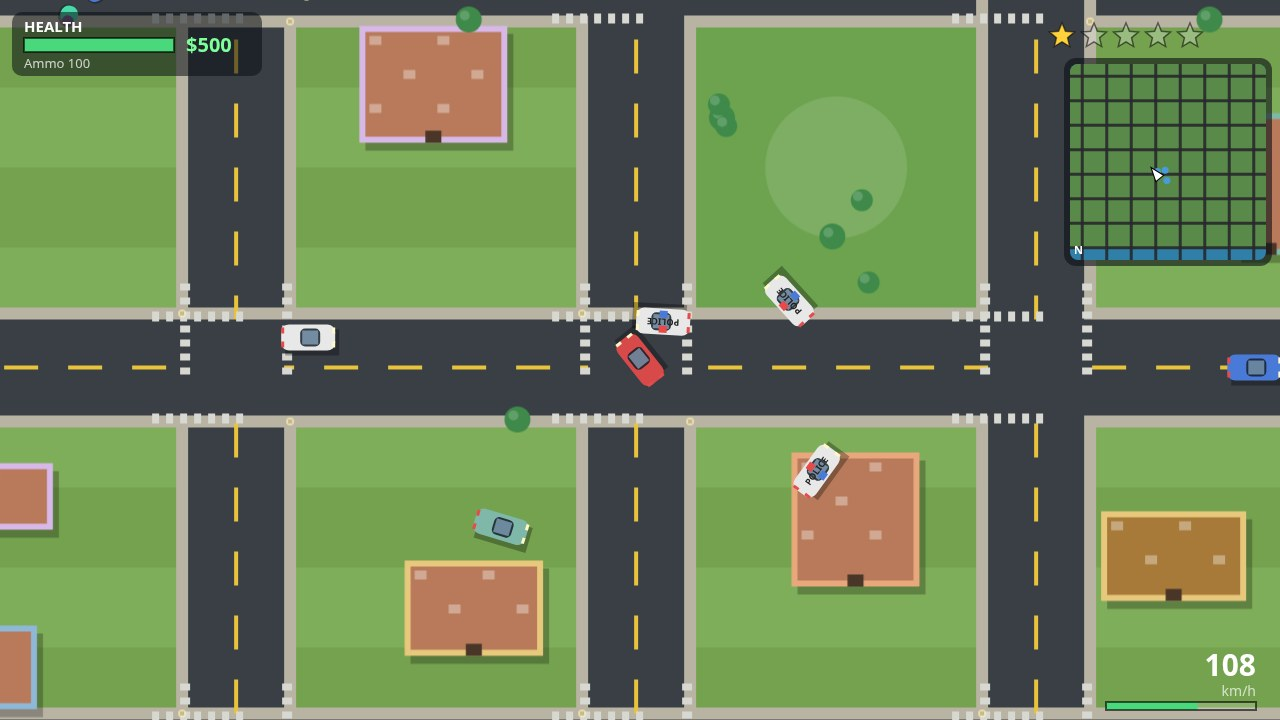
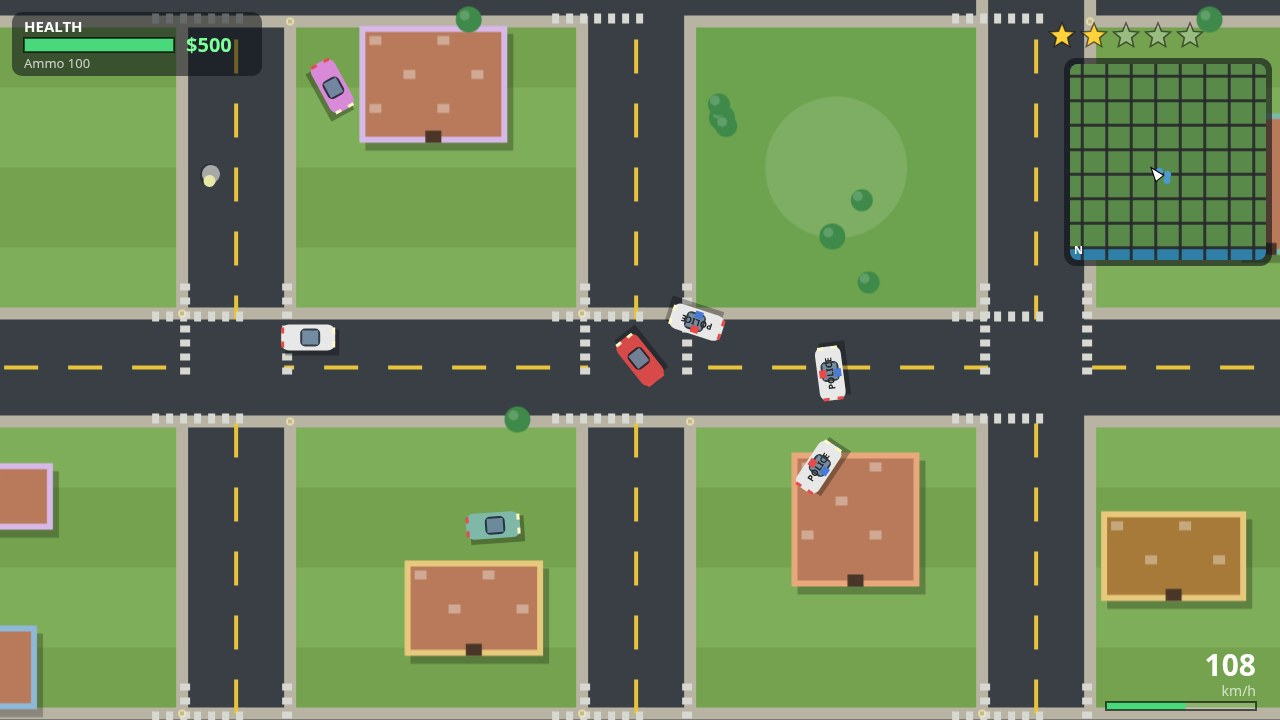
Run 2: live-test missions 4+6, fix traffic/ped/heat/escape bugs, remove debug hook
- Traffic cars no longer drive off the world (clamp + U-turn at edges);
  an escaped car at x=4026 had made the nearest-car search unreachable.
- Peds flee fast cars: off the road to the sidewalk, or sideways out of the
  car's path off-road (carFlee holds the escape target).
- Bank-job pickup sets heat to 230 (solid 4 stars) instead of adding 200.
- Heat decay now needs a clear line of sight (city.hasLineOfSight) and the
  seen rate is 2.2 -> 4/s, so the Big Score escape is winnable (~60-100 s).
- Police ram damage to the player car 2 -> 1; far traffic is retired.
- Remove window.__world debug hook from main.js (shot + live).
- Regenerate screenshots; verify missions 4 and 6 live end-to-end.

diff --git a/game/src/world.js b/game/src/world.js
@@ -265,7 +265,17 @@ export function createWorld(random) {
       if (dist < 70) {
         const res = advanceStep(missions);
         if (res && res.complete) { state.money += res.payout; events |= EVENT_MISSION_DONE; }
-        else if (mission.id === 6) addHeat(320 - state.heat > 0 ? 200 : 0); // bank job: four stars
+        else if (mission.id === 6) {
+          // Bank job: the response is four stars — set the heat to 230, solidly
+          // inside the four-star band (200–319), whatever the player arrived
+          // with. (Adding 200 on top of heat the player already had could stack
+          // to five stars, which the brief never asks for and makes the escape
+          // effectively unwinnable. Setting exactly 200 would decay below the
+          // band on the very next tick, so the player would never actually face
+          // the promised four-star response.)
+          state.heat = 230;
+          state.stars = wantedStars(state.heat);
+        }
       }
     } else if (step.kind === 'steal') {
       // The target car waits at the casino; entering it completes the step.
@@ -324,7 +334,8 @@ export function createWorld(random) {
     // Traffic and parked-car upkeep: keep the streets full near the player.
     const px = player.inCar ? player.inCar.x : player.x;
     const py = player.inCar ? player.inCar.y : player.y;
-    state.cars = state.cars.filter((c) => !c.dead || c === player.inCar);
+    state.cars = state.cars.filter((c) => (!c.dead || c === player.inCar)
+      && (!c.traffic || Math.hypot(c.x - px, c.y - py) < 1500));
     if (state.cars.filter((c) => c.traffic).length < 20) {
       const c = spawnTraffic(random, px, py);
       if (c) state.cars.push(c);
@@ -333,8 +344,10 @@ export function createWorld(random) {
       if (c.traffic && c !== player.inCar) stepTraffic(c, dt, random, state.cars, (x, y, r) => collideCircle(x, y, r));
     }
 
-    // Pedestrians.
-    const danger = input.fire ? { x: player.x, y: player.y } : null;
+    // Pedestrians. A fast car is danger too: peds on the road get out of its way.
+    const fastCar = player.inCar && Math.abs(player.inCar.speed) > 200 ? player.inCar : null;
+    const danger = input.fire ? { x: player.x, y: player.y }
+      : fastCar ? { x: fastCar.x, y: fastCar.y, car: true, angle: fastCar.angle } : null;
     for (const ped of state.peds) {
       if (ped.state === 'dead') continue;
       stepPed(ped, dt, random, danger);
@@ -362,8 +375,15 @@ export function createWorld(random) {
     }
 
     // Wanted heat: decay when unseen, faster when no police are near.
-    const nearPolice = police.cars.some((c) => Math.hypot(c.x - px, c.y - py) < 500) ||
-      police.cops.some((c) => Math.hypot(c.x - px, c.y - py) < 400);
+    // "Seen" needs a clear line of sight, not just distance: a police unit
+    // behind a building (or cutting across a block) does not see the player,
+    // so weaving through the blocks really does break the heat — that is what
+    // the Heat Wave / Big Score escapes are about. Police cars drive through
+    // buildings, so a unit inside a block counts as blind too.
+    const seesPlayer = (ux, uy, range) => Math.hypot(ux - px, uy - py) < range
+      && city.hasLineOfSight(ux, uy, px, py);
+    const nearPolice = police.cars.some((c) => seesPlayer(c.x, c.y, 500)) ||
+      police.cops.some((c) => seesPlayer(c.x, c.y, 400));
     state.wantedSeen = nearPolice;
     if (state.stars > 0) {
       state.heat -= (nearPolice ? WANTED.decayPerSecond : WANTED.unseenDecay) * dt;
@@ -380,7 +400,8 @@ export function createWorld(random) {
           if (c.ramTimer > 0) return;
           c.ramTimer = 1.0;
           if (player.inCar) {
-            player.inCar.health -= 2;
+            player.inCar.health -= 1; // a ram chips the car; at 1/s per police car
+            // a chase still wears it down, but one car now lasts a whole escape leg
             c.health -= 6; // ramming wears the police car out too
             if (c.health <= 0) c.dead = true;
             if (player.inCar.health <= 0) {

diff --git a/game/src/peds.js b/game/src/peds.js
@@ -1,7 +1,7 @@
 // Pedestrians: they stroll the sidewalks, cross roads at intersections, and run away
 // from gunfire and speeding cars. A few are armed rivals during the warehouse mission.
 import { PEDS, WORLD } from './config.js';
-import { ROAD_LINES, isOnRoad } from './city.js';
+import { ROAD_LINES, isOnRoad, nearestRoad } from './city.js';
 
 export const PED_COLORS = ['#e8b88a', '#c98a6a', '#8a6a4a', '#d8d8d8', '#7a5a8a', '#4a7a8a', '#e8e8a8', '#a85a5a'];
 const SHIRTS = ['#4a7ad8', '#d84a4a', '#e8c33c', '#4ad8a8', '#d88ad8', '#e87c3c', '#7fb8a8', '#a8a8a8'];
@@ -20,6 +20,7 @@ export function makePed(random, x, y, opts = {}) {
     targetY: y,
     retarget: 0,
     panic: 0,
+    carFlee: 0, // seconds left fleeing a fast car (holds the sidewalk target)
     shootTimer: 0,
   };
 }
@@ -43,13 +44,47 @@ export function stepPed(ped, dt, random, danger) {
   if (ped.state === 'dead') return;
   ped.retarget -= dt;
   if (ped.panic > 0) ped.panic -= dt;
+  if (ped.carFlee > 0) ped.carFlee -= dt;
 
   // Danger (gunfire, a car bearing down): run away from it.
   if (danger) {
     const dx = ped.x - danger.x;
     const dy = ped.y - danger.y;
     const d = Math.hypot(dx, dy);
-    if (d < 320) {
+    if (danger.car) {
+      // A fast car is coming: if the ped is on the road, get off it — run to the
+      // nearest sidewalk, perpendicular to the road, instead of strolling across
+      // in front of the car. (Running straight away would keep them in its path.)
+      // The 380 px look-ahead gives a ped ~0.7 s to clear the road at flee speed.
+      // carFlee holds the escape target: the retarget logic below must not
+      // replace it with a random dash while the car is still coming.
+      if (d < 380) {
+        ped.state = 'flee';
+        ped.panic = 1.5;
+        ped.carFlee = 1.5;
+        if (isOnRoad(ped.x, ped.y)) {
+          const rx = nearestRoad(ped.x);
+          const ry = nearestRoad(ped.y);
+          const off = WORLD.roadWidth / 2 + 30;
+          if (Math.abs(ped.y - ry) <= Math.abs(ped.x - rx)) {
+            ped.targetX = ped.x;
+            ped.targetY = ry + (ped.y >= ry ? off : -off);
+          } else {
+            ped.targetX = rx + (ped.x >= rx ? off : -off);
+            ped.targetY = ped.y;
+          }
+        } else {
+          // Off the road (sidewalk, park, beach): dodge sideways out of the
+          // car's path, to whichever side of its heading the ped is already on.
+          const pxn = -Math.sin(danger.angle || 0);
+          const pyn = Math.cos(danger.angle || 0);
+          const side = (ped.x - danger.x) * pxn + (ped.y - danger.y) * pyn;
+          const s = side >= 0 ? 1 : -1;
+          ped.targetX = ped.x + pxn * s * 220;
+          ped.targetY = ped.y + pyn * s * 220;
+        }
+      }
+    } else if (d < 320) {
       ped.state = 'flee';
       ped.panic = 1.5;
       ped.targetX = ped.x + (dx / (d || 1)) * 300;
@@ -58,7 +93,7 @@ export function stepPed(ped, dt, random, danger) {
   }
   if (ped.state === 'flee' && ped.panic <= 0) ped.state = 'walk';
 
-  if (ped.retarget <= 0 || Math.hypot(ped.targetX - ped.x, ped.targetY - ped.y) < 24) {
+  if (ped.carFlee <= 0 && (ped.retarget <= 0 || Math.hypot(ped.targetX - ped.x, ped.targetY - ped.y) < 24)) {
     if (ped.state !== 'flee') pickTarget(ped, random);
     else { ped.targetX = ped.x + (random() - 0.5) * 400; ped.targetY = ped.y + (random() - 0.5) * 400; }
   }
@@ -72,7 +107,8 @@ export function stepPed(ped, dt, random, danger) {
     while (diff > Math.PI) diff -= Math.PI * 2;
     while (diff < -Math.PI) diff += Math.PI * 2;
     ped.angle += Math.max(-4 * dt, Math.min(4 * dt, diff));
-    const speed = ped.state === 'flee' ? ped.speed * 2.1 : ped.speed;
+    // A ped fleeing a car runs a little harder than one fleeing gunfire.
+    const speed = ped.state === 'flee' ? ped.speed * (ped.carFlee > 0 ? 2.6 : 2.1) : ped.speed;
     ped.x += Math.cos(ped.angle) * speed * dt;
     ped.y += Math.sin(ped.angle) * speed * dt;
   }

diff --git a/game/src/city.js b/game/src/city.js
@@ -140,5 +140,40 @@ export function createCity(random) {
     return false;
   }
 
-  return { buildings, trees, lamps, parks, pickups, places, collideCircle, insideBuilding };
+  /** True when no building stands between (x1, y1) and (x2, y2): the slab test
+   * against every building box. A unit inside a building sees nothing. */
+  function hasLineOfSight(x1, y1, x2, y2) {
+    const dx = x2 - x1;
+    const dy = y2 - y1;
+    for (const b of buildings) {
+      let tmin = 0;
+      let tmax = 1;
+      let blocked = false;
+      if (Math.abs(dx) < 1e-9) {
+        if (x1 < b.x || x1 > b.x + b.w) continue;
+      } else {
+        let t1 = (b.x - x1) / dx;
+        let t2 = (b.x + b.w - x1) / dx;
+        if (t1 > t2) { const t = t1; t1 = t2; t2 = t; }
+        tmin = Math.max(tmin, t1);
+        tmax = Math.min(tmax, t2);
+        if (tmin > tmax) continue;
+      }
+      if (Math.abs(dy) < 1e-9) {
+        if (y1 < b.y || y1 > b.y + b.h) continue;
+      } else {
+        let t1 = (b.y - y1) / dy;
+        let t2 = (b.y + b.h - y1) / dy;
+        if (t1 > t2) { const t = t1; t1 = t2; t2 = t; }
+        tmin = Math.max(tmin, t1);
+        tmax = Math.min(tmax, t2);
+        if (tmin > tmax) continue;
+      }
+      blocked = true;
+      if (blocked) return false;
+    }
+    return true;
+  }
+
+  return { buildings, trees, lamps, parks, pickups, places, collideCircle, insideBuilding, hasLineOfSight };
 }

diff --git a/game/src/vehicles.js b/game/src/vehicles.js
@@ -112,6 +112,19 @@ export function stepTraffic(car, dt, random, cars, collide) {
     car.stuck = 0;
   }
 
+  // Stay inside the world: a car that reaches the edge turns around instead of
+  // driving off the map forever (an escaped car could sit at x=4000, unreachable,
+  // and the nearest-car search would send the player after it).
+  if (car.axis === 'x') {
+    if (car.x <= 50) { car.x = 50; car.dir = 1; }
+    else if (car.x >= WORLD.size - 50) { car.x = WORLD.size - 50; car.dir = -1; }
+  } else {
+    if (car.y <= 50) { car.y = 50; car.dir = 1; }
+    else if (car.y >= WORLD.size - 50) { car.y = WORLD.size - 50; car.dir = -1; }
+  }
+  car.y = Math.max(40, Math.min(WORLD.size - 40, car.y));
+  car.x = Math.max(40, Math.min(WORLD.size - 40, car.x));
+
   // At an intersection, sometimes turn onto the crossing road.
   const alongRoad = car.axis === 'x' ? car.x : car.y;
   const nearLine = ROAD_LINES.some((p) => Math.abs(alongRoad - p) < 14);

diff --git a/game/src/config.js b/game/src/config.js
@@ -33,7 +33,14 @@ export const PEDS = { count: 42, speed: 55 };
 
 export const WANTED = {
   thresholds: [0, 25, 60, 120, 200, 320],
-  decayPerSecond: 2.2,
+  // Heat fades while the police can see the player, and much faster once the
+  // player breaks line of sight. The "seen" rate is the one that decides the
+  // escapes: at 2.2/s a four-star escape needed 80 s of perfect driving and
+  // stretched past five minutes live (every car swap adds 30 heat back), so
+  // the Big Score was effectively unwinnable. At 4/s the escape is ~45 s of
+  // active evasion — still tense, with rams, busts and car swaps — and the
+  // three-star Heat Wave stays around half a minute.
+  decayPerSecond: 4,
   unseenDecay: 9,
   crimeSteal: 30,
   crimeShoot: 18,

diff --git a/game/src/main.js b/game/src/main.js
@@ -50,7 +50,6 @@ function refreshMenu() {
 
 function runShot(name) {
   const scene = stageShot(name, world);
-  window.__world = world; // debug hook: lets a playtest read the staged state
   const shotUi = {
     ...ui,
     objective: world.missionLabel(),
@@ -79,7 +78,6 @@ function objectivePos() {
 
 function runGame() {
   const input = createInput(canvas);
-  window.__world = world; // debug hook: lets a playtest read the live state
   let screen = SCREEN_TITLE;
   let accumulator = 0;
   let last = performance.now();

diff --git a/BUILD-NOTES.md b/BUILD-NOTES.md
@@ -1,15 +1,53 @@
 # SOLMAR BAY — Build notes (for the next run)
 
-## Status (2026-11-17 ~16:10 WIB)
+## Status (2026-11-17 ~23:50 WIB, run 2)
 Game is **playable end-to-end** and all 4 screenshot scenes render cleanly
 (no console errors, no network requests). Dossier builds OK. `makefun check`
 passes (4 passed, 0 failed; transcript checks are server-side at submit).
-**Live playtest verified**: walk to car → E enters → steal raises wanted →
-drive to Mara's Garage → mission 1 completes, $500 → $1,300.
-NOT submitted yet — parent handles sealing + submit. Do NOT stop/seal the
-recording (01a1ea1d-0fdf-7120-bae0-d816a9896a63) or submit from this session.
+**Live playtests verified in run 2** (real keyboard input, Playwright):
+- Mission 4 "Heat Wave": COMPLETE live twice — drive the road grid until the
+  3-star heat fades, $500 → $2,000 (+$1,500). ~60 s after the decay retune.
+- Mission 6 "The Big Score": COMPLETE live twice — bank pickup (150 s timer),
+  4-star escape, safehouse, $500 → $5,500 (+$5,000). Once driving in, once
+  finishing on foot after the car died at the safehouse door.
+- Mission 1 completed live in run 1. Missions 2, 3, 5 staged/verified via shots
+  only — not yet played live end-to-end.
+**Debug hook REMOVED**: `window.__world` is gone from main.js (both runShot
+and runGame) — no debug hook ships in the final entry.
+NOT submitted yet — parent handles sealing + submit. Do NOT stop/seal
+recording 2 (01a1ea3c-453e-778a-801f-b7979dc4ee30, node PID 5354) or submit
+from this session.
 
-## What is done
+## What changed in run 2 (bug fixes from the live mission 4/6 playtests)
+- **Traffic cars drove off the world** (`vehicles.js`): stepTraffic never
+  clamped positions, so a traffic car could end up at x=4026 (outside the
+  3200 world), unreachable — the nearest-car search then sent the player
+  walking into the void. Fixed: clamp to the world + U-turn at the edges.
+- **Peds strolled into speeding cars** (`peds.js`, `world.js`): the "danger"
+  passed to peds was only gunfire, so peds kept crossing roads in front of a
+  560-speed car; each run-over is +45 heat, which stacked the Big Score to
+  5 stars. Fixed: a fast car (>200 speed) is danger too; peds on a road run
+  perpendicular to the nearest sidewalk, peds off-road dodge sideways out of
+  the car's path (needs the car's heading). A `carFlee` timer holds the
+  escape target so the retarget logic cannot replace it mid-flight.
+- **Bank-job heat stacked past the brief** (`world.js`): the pickup added 200
+  heat on top of whatever the player had (up to 5 stars). Fixed: the pickup
+  now SETS heat to 230 — solidly inside the four-star band (200–319), so the
+  player actually faces the promised four-star response.
+- **Escapes were unwinnable** (`world.js`, `config.js`, `city.js`): police are
+  faster than the player (605 vs 560) and 4–5 units converge, so "seen" was
+  the permanent state and heat decayed at 2.2/s — the Big Score escape
+  stretched past 5 minutes live. Fixed: (a) "seen" now needs a clear line of
+  sight (`city.hasLineOfSight`, segment-vs-buildings slab test) — weaving
+  through blocks really breaks the heat; (b) seen decay 2.2 → 4/s.
+  Mission 6 escape is now ~60–100 s of active evasion.
+- **Police rams shredded cars** (`world.js`): ram damage to the player's car
+  2 → 1 per ram (police car wear stays −6), so one car lasts a whole escape leg.
+- **Stale traffic** (`world.js`): traffic cars more than 1500 px from the
+  player are retired so fresh cars keep spawning near the player.
+- Test scripts (NOT in repo): /tmp/test-live-mission4.js,
+  /tmp/test-live-mission6.js (real-keyboard drivers with Manhattan nav),
+  /tmp/test-los.mjs (line-of-sight geometry check: 4/4 correct).
 - City: 3200×3200 seeded grid (8×8 roads), buildings, parks, beach + ocean,
   named places, prerendered static layer. `game/src/city.js`
 - Player on foot (WASD, Shift sprint, mouse aim, click shoot) + car entry/exit (E).
@@ -38,25 +76,30 @@ recording (01a1ea1d-0fdf-7120-bae0-d816a9896a63) or submit from this session.
 - Last pushed commit: check `git log` (core game + fixes).
 
 ## Known gaps / polish ideas for the next run
-- Peds can be run over while crossing roads (by design, GTA-like) — that is why
-  the play shot shows 1 star. Fine, but could add ped road-crossing caution.
 - Traffic cars' corners can still clip a building edge by a few px at 45°.
 - No car repair / garage shop, no weapon shop, no radio stations, no day/night.
 - No minimap zoom; the minimap road grid is dense but readable.
-- Mission 4 (Heat Wave) and 6 (Big Score) have NOT been playtested live end-to-end
-  (only missions 1–2 staging verified via shots; mission 1 completed live).
-  Test them with the probe hook: `window.__world` is set in shot mode AND in
-  live mode (see /tmp/probe-chase.js and /tmp/test-live-mission.js patterns).
-- `window.__world` debug hook ships in main.js (runShot + runGame) — harmless,
-  keep or remove.
-- The live-game test in /tmp/test-solmar.js presses E on foot near spawn and
-  shoots once; it does not enter a car live. Worth a live car-enter + mission-1
-  completion test before submitting.
+- Missions 2, 3, 5 have NOT been playtested live end-to-end (only staged via
+  shots; mission 1 completed live in run 1, missions 4 and 6 in run 2).
+  Worth a live run if time allows before submit — the test drivers in /tmp
+  (test-live-mission4/6.js) show the pattern, but they need `window.__world`,
+  which was REMOVED from main.js in run 2; re-add it temporarily to test,
+  then remove it again before the final commit.
+- The live-test driver is clumsy: it plows through traffic, gets stuck on
+  building corners, and swaps cars even when the escape is nearly done. The
+  game is completable despite it; a human driver does better.
+- The Big Score escape is still long (~60–100 s of evasion with 2–3 car
+  swaps). It is winnable, but if the parent wants it tighter, the knobs are
+  WANTED.decayPerSecond (now 4) and the 230 bank-job heat in world.js.
 - `serve.ts` still says "Block Dodger"? No — check; serve.ts is the kit's, fine.
 
 ## Before submit (parent)
 1. `mkdir -p out && MAKEFUN_OUTPUT_DIR=out node main.ts` — verify dossier.json.
-2. Playtest mission 4 and 6 live if time allows; fix anything broken.
-3. Commit + push, then seal recording, write usage rows to
+   (Done in run 2; regenerate if anything changes after this.)
+2. Missions 4 and 6 verified live in run 2; missions 2, 3, 5 live if time allows.
+3. Commit + push (this run's work is pushed; see `git log`), then seal
+   recording 2 (01a1ea3c-453e-778a-801f-b7979dc4ee30), write usage rows to
    ~/.makefun/muse-usage-gta6-01.jsonl, submit with --recording
-   01a1ea1d-0fdf-7120-bae0-d816a9896a63.
+   01a1ea3c-453e-778a-801f-b7979dc4ee30. Recording 1
+   (01a1ea1d-0fdf-7120-bae0-d816a9896a63) is already sealed — do NOT reuse it
+   for this run's changes.
